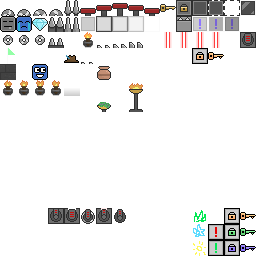
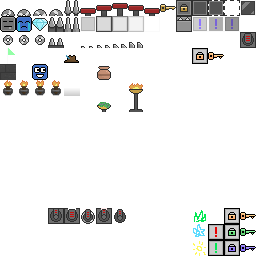
add torch as editor item and stageobject

Changed region(s): [[0.625, 0.125, 0.875, 0.1875], [0.3125, 0.125, 0.375, 0.1875], [0.3125, 0.2188, 0.375, 0.25]]

diff --git a/src/stage_editor/enums.rs b/src/stage_editor/enums.rs
@@ -36,7 +36,8 @@ pub enum EditorItem {
     Goal = 10,
     TerrainTheme { variant: TerrainThemeVarient } = 11,
     PressureSpike { rotation: f32 }= 12,
-    Laser { rotation: f32 }= 13,
+    Laser { rotation: f32 } = 13,
+    Torch = 14,
 
 }
 
@@ -56,13 +57,14 @@ impl EditorItem {
             EditorItem::Goal => EditorItem::TerrainTheme { variant: TerrainThemeVarient::Grass },
             EditorItem::TerrainTheme { .. } => EditorItem::PressureSpike { rotation: 0.0 },
             EditorItem::PressureSpike { .. } => EditorItem::Laser { rotation: 0.0 },
-            EditorItem::Laser { .. } => EditorItem::Ground,
+            EditorItem::Laser { .. } => EditorItem::Torch,
+            EditorItem::Torch => EditorItem::Ground
         }
     }
     pub fn cycle_prev(&self) -> Self {
         match self {
             EditorItem::SawShooter { .. } => EditorItem::IntervalBlock { variant: IntervalBlockVariant::On },
-            EditorItem::Ground => EditorItem::Laser { rotation: 0.0 },
+            EditorItem::Ground => EditorItem::Torch,
             EditorItem::IntervalBlock { .. } => EditorItem::LockBlock { variant: LockBlockVariant::One },
             EditorItem::LockBlock { .. } => EditorItem::HalfSaw { rotation: 0.0 },
             EditorItem::HalfSaw { .. } => EditorItem::PhantomBlock,
@@ -74,7 +76,8 @@ impl EditorItem {
             EditorItem::Goal { .. } => EditorItem::SawShooter { rotation: 0.0 },
             EditorItem::TerrainTheme { .. } => EditorItem::Goal,
             EditorItem::PressureSpike { .. } => EditorItem::TerrainTheme { variant: TerrainThemeVarient::Grass },
-            EditorItem::Laser { .. } => EditorItem::PressureSpike { rotation: 0.0 }
+            EditorItem::Laser { .. } => EditorItem::PressureSpike { rotation: 0.0 },
+            EditorItem::Torch => EditorItem::Laser { rotation: 0.0 }
         }
     }
     pub fn cycle_next_variant(&self) -> Self {
@@ -93,7 +96,7 @@ impl EditorItem {
             EditorItem::TerrainTheme { variant } => EditorItem::TerrainTheme { variant: variant.cycle_next() },
             EditorItem::PressureSpike { rotation } => EditorItem::PressureSpike { rotation: *rotation },
             EditorItem::Laser { rotation } => EditorItem::Laser { rotation: *rotation },
-
+            EditorItem::Torch => EditorItem::Torch,
         }
     }
     pub fn cycle_prev_variant(&self) -> Self {
@@ -112,7 +115,7 @@ impl EditorItem {
             EditorItem::TerrainTheme { variant } => EditorItem::TerrainTheme { variant: variant.cycle_prev() },
             EditorItem::PressureSpike { rotation } => EditorItem::PressureSpike { rotation: *rotation },
             EditorItem::Laser { rotation } => EditorItem::Laser { rotation: *rotation },
-
+            EditorItem::Torch => EditorItem::Torch,
         }
     }
 
@@ -133,6 +136,7 @@ impl EditorItem {
             EditorItem::TerrainTheme { .. } => return false,
             EditorItem::PressureSpike { rotation } => rotate_quater_bounded(rotation),
             EditorItem::Laser { rotation } => rotate_quater_bounded(rotation),
+            EditorItem::Torch => return false,
         };
         return true;
     }
@@ -152,6 +156,7 @@ impl EditorItem {
             EditorItem::TerrainTheme { .. } => 0.0,
             EditorItem::PressureSpike { rotation } => *rotation,
             EditorItem::Laser { rotation } => *rotation,
+            EditorItem::Torch => 0.0,
         }
     }
 }

diff --git a/src/stage/stage_builder/stage_creator.rs b/src/stage/stage_builder/stage_creator.rs
@@ -1,4 +1,4 @@
-use crate::{common::{checkpoint::CheckpointBundle, rails::RailGraph}, player::spawner::LocalPlayerSpawner, shaders::background_shader::BackgroundMaterial, stage::stage_objects::{goal::GoalFactory, half_saw::SawFactory, interval_block::IntervalBlockFactory, key::KeyFactory, laser::LaserBuilder, lock_block::LockBlockFactory, phantom_block::PhantomBlockFactory, pressure_spikes::PressureSpikeBuilder, saw_shooter::SawShooterFactory, spike::SpikeFactory, spring::SpringFactory, tiles::{GroundTileBundle, TileBundle}, StageObject}, stage_editor::map_surrounding_ground_bitmask_to_atlas_index};
+use crate::{common::{checkpoint::CheckpointBundle, rails::RailGraph}, player::spawner::LocalPlayerSpawner, shaders::background_shader::BackgroundMaterial, stage::stage_objects::{goal::GoalFactory, half_saw::SawFactory, interval_block::IntervalBlockFactory, key::KeyFactory, laser::LaserBuilder, lock_block::LockBlockFactory, phantom_block::PhantomBlockFactory, pressure_spikes::PressureSpikeBuilder, saw_shooter::SawShooterFactory, spike::SpikeFactory, spring::SpringFactory, tiles::{GroundTileBundle, TileBundle}, torch::TorchFactory, StageObject}, stage_editor::map_surrounding_ground_bitmask_to_atlas_index};
 
 use super::stage_asset::Stage;
 use bevy::{platform::collections::HashMap, prelude::*};
@@ -58,6 +58,10 @@ pub enum ObjectAtlasIndices {
     BeamEndParticles1 = 57,
     BeamEndParticles2 = 58,
     BeamEndParticles3 = 59,
+    Torch0 = 90,
+    Torch1 = 91,
+    Torch2 = 92,
+    Torch3 = 93,
 }
 
 
@@ -92,6 +96,7 @@ impl<'a> StageCreator<'a> {
         && build_pressure_spikes(self, commands)
         && build_lasers(self, commands)
         && add_rails(self, commands)
+        && build_toches(self, commands)
     }
 
 
@@ -338,6 +343,20 @@ fn build_phantom_blocks(stage_creator: &StageCreator, commands: &mut Commands) -
     ];
     for phantom_block in &stage_creator.stage.phantom_blocks {
         PhantomBlockFactory::spawn(commands, stage_creator, atlas_rects.clone(), phantom_block);
+    }
+    return true;
+}
+
+fn build_toches(stage_creator: &StageCreator, commands: &mut Commands) -> bool {
+    let atlas_rects = vec![
+        get_object_tilemap_rect_from_index(ObjectAtlasIndices::Torch0),
+        get_object_tilemap_rect_from_index(ObjectAtlasIndices::Torch1),
+        get_object_tilemap_rect_from_index(ObjectAtlasIndices::Torch2),
+        get_object_tilemap_rect_from_index(ObjectAtlasIndices::Torch3),
+    ];
+
+    for torch in stage_creator.stage.torches.as_ref().into_iter().flatten() {
+        TorchFactory::spawn(commands, stage_creator, atlas_rects.clone(), &torch);
     }
     return true;
 }

diff --git a/src/stage_editor/controller.rs b/src/stage_editor/controller.rs
@@ -1,7 +1,7 @@
 
 use bevy::{platform::collections::HashMap, prelude::*, scene::ron};
 
-use crate::{stage::stage_builder::{stage_asset::{GroundTile, HalfSaw, IntervalBlock, Key, Laser, LockBlock, PhantomBlock, PressureSpike, RailGraph, RailRider, SawShooterBlock, Spike, Spring, Stage, TerrainTheme}, stage_creator::TILE_SIZE}, stage_editor::rail_grid::RailGrid};
+use crate::{stage::stage_builder::{stage_asset::{GroundTile, HalfSaw, IntervalBlock, Key, Laser, LockBlock, PhantomBlock, PressureSpike, RailGraph, RailRider, SawShooterBlock, Spike, Spring, Stage, TerrainTheme, Torch}, stage_creator::TILE_SIZE}, stage_editor::rail_grid::RailGrid};
 
 use super::{enums::*, get_ground_atlas_index};
 
@@ -241,6 +241,10 @@ impl EditorController {
         for laser in &stage.lasers {
             self.stage_grid.insert(laser.grid_pos.as_ivec2(), EditorItem::Laser { rotation: laser.rotation });
         }
+        for torch in stage.torches.as_ref().into_iter().flatten() {
+            self.stage_grid.insert(torch.grid_pos.as_ivec2(), EditorItem::Torch);
+        }
+
     }
 
     fn build_stage(&self) -> Stage {
@@ -335,6 +339,7 @@ impl EditorController {
                         rail_rider: if let Some((rail_id, waypoint_index)) = self.rail_grid.is_on(*grid_pos) { Some(RailRider::new(rail_id, waypoint_index + 1, false)) } else { None },
                     });
                 }
+                EditorItem::Torch => { stage.torches.get_or_insert_with(|| vec![]).push(Torch { grid_pos: grid_pos.as_vec2() }); },
             }
         }
         return stage;

diff --git a/src/stage/stage_objects/torch.rs b/src/stage/stage_objects/torch.rs
@@ -1,0 +1,19 @@
+use bevy::prelude::*;
+
+use crate::{common::animated_sprite::SpriteAnimator, rt_lights::components::PointLight, stage::{stage_builder::{stage_asset, stage_creator::StageCreator}, stage_objects::tiles::TileBundle}};
+
+
+pub struct TorchFactory;
+
+impl TorchFactory {
+    pub fn spawn(commands: &mut Commands, stage_creator: &StageCreator, atlas_rects: Vec<Rect>, torch: &stage_asset::Torch) {
+        commands.spawn((
+            TileBundle::new(stage_creator, torch.grid_pos, atlas_rects[0], 0.0, stage_creator.object_tilemap),
+            SpriteAnimator::new(50, atlas_rects),
+            PointLight {
+                intensity: 255,
+                colour: Color::srgb_u8(255, 190, 90),
+            }
+        ));
+    }
+}

diff --git a/src/stage/stage_builder/stage_asset.rs b/src/stage/stage_builder/stage_asset.rs
@@ -28,7 +28,8 @@ pub struct Stage {
     pub grid_width: usize,
     pub grid_height: usize,
     pub spawn_grid_pos: Vec2,
-    pub goal_grid_pos: Vec2
+    pub goal_grid_pos: Vec2,
+    pub torches: Option<Vec<Torch>>,
 }
 
 impl Stage {
@@ -53,6 +54,7 @@ impl Stage {
             spawn_grid_pos: Vec2::default(),
             goal_grid_pos: Vec2::new(100.0 * TILE_SIZE, 0.0),
             terrain_theme: TerrainTheme::Grass,
+            torches: None,
         }
     }
 }
@@ -90,6 +92,11 @@ pub enum TerrainTheme {
 pub struct GroundTile {
     pub grid_pos: Vec2,
     pub tilemap_index: usize
+}
+
+#[derive(Debug, Deserialize, Serialize)]
+pub struct Torch {
+    pub grid_pos: Vec2,
 }
 
 #[derive(Debug, Deserialize, Serialize)]

diff --git a/src/stage_editor/renderer/editor_renderer.rs b/src/stage_editor/renderer/editor_renderer.rs
@@ -61,7 +61,8 @@ impl EditorRenderer {
                 crate::stage_editor::enums::TerrainThemeVarient::Sand => (252.0, 16.0),
             },
             EditorItem::PressureSpike { .. } => (40.0, 16.0),
-            EditorItem::Laser { .. } => (47.0, 16.0)
+            EditorItem::Laser { .. } => (47.0, 16.0),
+            EditorItem::Torch => (80.0, 16.0),
         };
 
         let upper_left = Vec2::new(index % EDITOR_TILEMAP_SIZE, (index / EDITOR_TILEMAP_SIZE).trunc()) * tile_size;

diff --git a/src/stage/stage_objects/pressure_spikes.rs b/src/stage/stage_objects/pressure_spikes.rs
@@ -37,10 +37,6 @@ impl PressureSpikeBuilder {
             SplatProvider {
                 translation_offset: Vec2::new(0.0, -(TILE_SIZE_HALF * 0.6)),
             },
-            PointLight {
-                intensity: 255,
-                colour: Color::srgb_u8(255, 190, 90),
-            },
             children![(
                 Transform::from_translation(Vec3::new(0.0, -TILE_SIZE_HALF * 0.6, 0.0)),
                 Collider::rectangle(TILE_SIZE * 0.8, TILE_SIZE * 0.4),

diff --git a/src/stage/stage_objects/mod.rs b/src/stage/stage_objects/mod.rs
@@ -12,6 +12,7 @@ pub mod phantom_block;
 pub mod saw_shooter;
 pub mod pressure_spikes;
 pub mod laser;
+pub mod torch;
 
 #[derive(Component, PartialEq, Clone, Copy)]
 pub enum StageObject {
